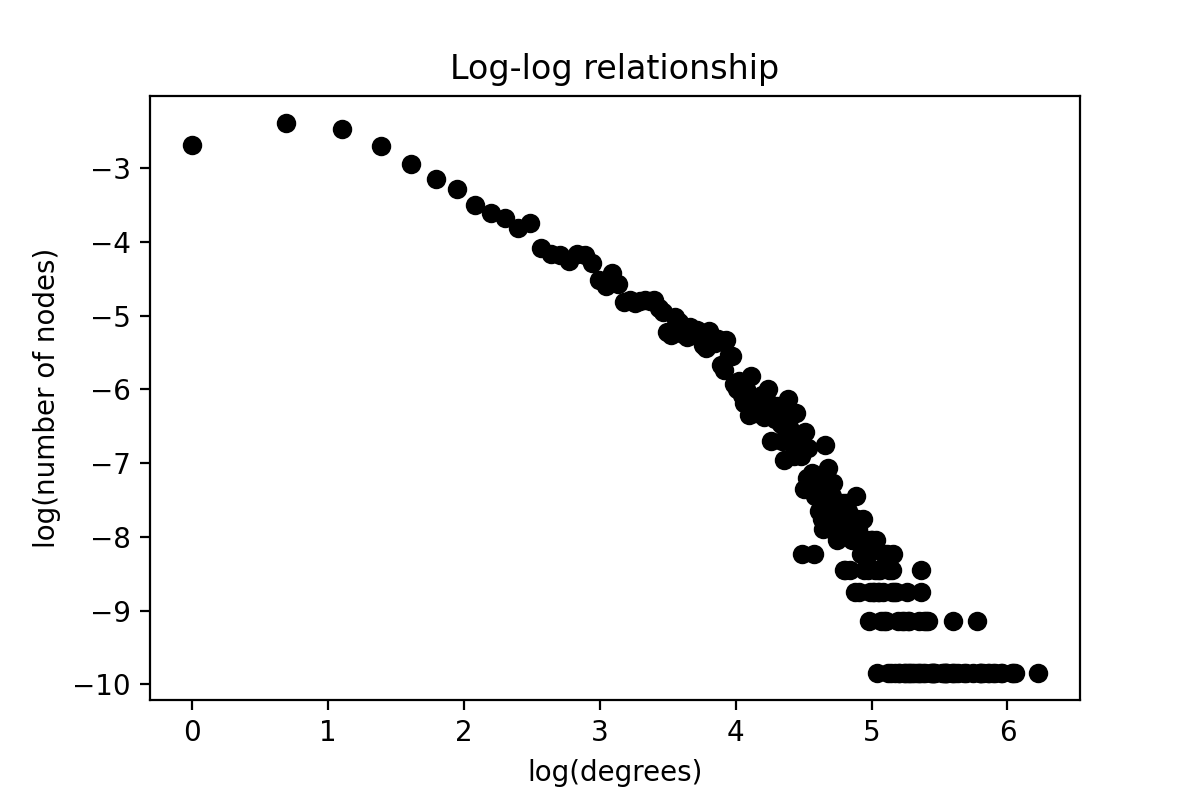
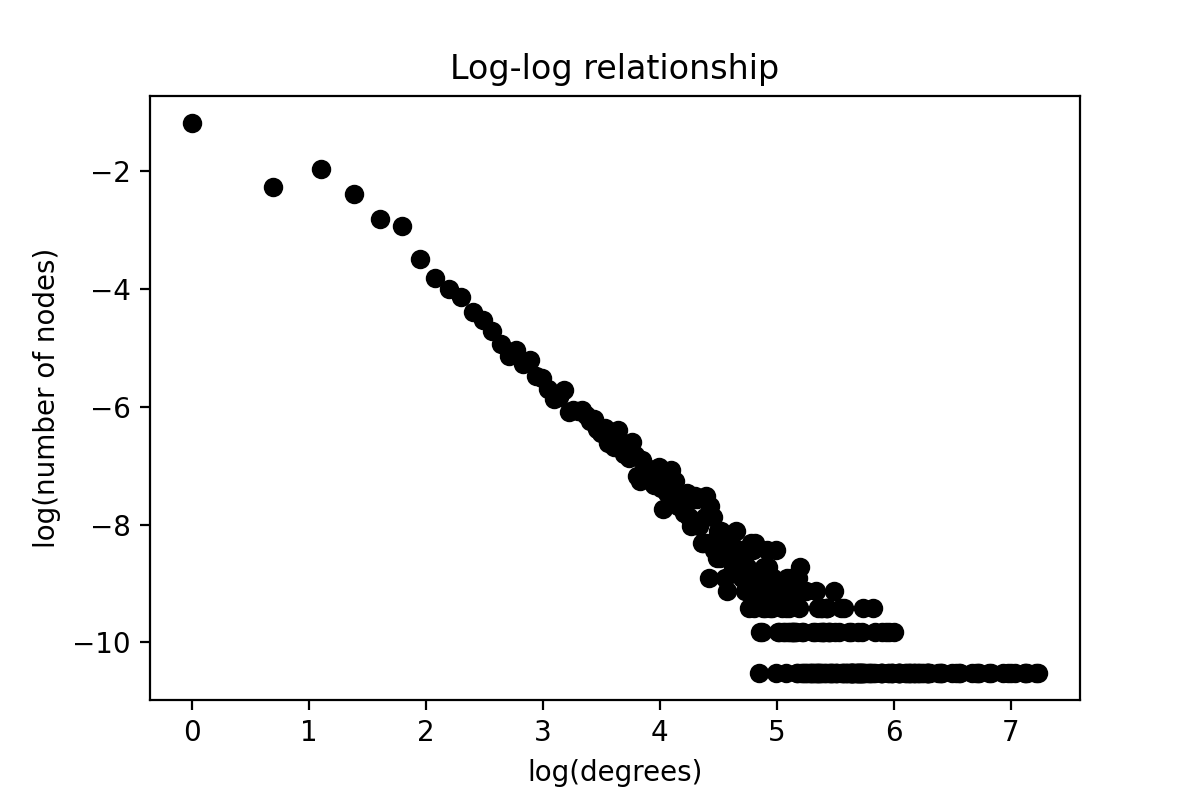
Removed the self-connections and updated C_mean and AverageNeighbourDegree

diff --git a/network.py b/network.py
@@ -8,6 +8,7 @@ import pandas as pd
 from scipy import sparse
 from scipy.optimize import curve_fit
 from scipy.stats import poisson
+from scipy.special import gammaln
 from scipy.stats import chisquare
 from math import factorial
 from math import exp
@@ -133,6 +134,13 @@ class NetworkBuilder:
         self._DegreeList = np.add.reduce(self._A)
         print("\n-- degree list created: \n" + str(self._DegreeList))
 
+        for i in range(self._A_size):
+            if(self._A[i,i] == 1):
+                self._A[i,i] = 0
+                self._DegreeList[i] = self._DegreeList[i] - 1
+        
+        self._A_sparse = sparse.coo_matrix(self._A)
+
         #
         #
 
@@ -169,27 +177,31 @@ class Network:
         """
 
         diagonal = []
+        C = 0
+
         A2_sparse = self.A_sparse @ self.A_sparse
         A3_sparse = A2_sparse @ self.A_sparse
+
+
         print("Matrix multiplication done.")
+
         A3_dense = A3_sparse.toarray()
 
         for i in range(self.A_size):
             diagonal.append(A3_dense[i, i])
 
         print("Filled the diagonal list.")
-        C = 0
 
         for i in range(self.A_size):
             #print("diagonal has value ", diagonal[i], "while degreelist has value ", self.DegreeList[i])
             if self.DegreeList[i] == 1 & diagonal[i] != 0:
-                print("diagonal has value ", diagonal[i], "while degreelist has value ", self.DegreeList[i], "at position", i, ".")
                 continue
+
             if diagonal[i] == 0:         
                 continue
             C = C + diagonal[i]/(self.DegreeList[i]*(self.DegreeList[i] - 1))
 
-        C_mean = C/self.A_size
+        C_mean = C/(self.A_size)
 
         print("Mean clustering was found to be %lf" % (C_mean))
 
@@ -230,27 +242,15 @@ class Network:
     # v) average neighbour degree ===============================================================================================
 
     def AverageNeighbourDegree(self):
-        randNode = np.random.randint(0, self.A_size)
-
-        neighbours = np.where(self.A[randNode, :] == 1)[
-            0]                    # returns tuple
-
-        Mean_Degree = 0
 
         for i in range(self.A_size):
             neighbours = np.where(self.A[i, :] == 1)[0]
-
-            Mean_Degree = Mean_Degree + \
-                round(np.add.reduce([self.DegreeList[j]
-                                     for j in neighbours])/len(neighbours), 2)
+            N = 0
+            if (len(neighbours) == 0):
+                continue
+        
+            Mean_Degree = Mean_Degree + np.add.reduce([self.DegreeList[j] for j in neighbours])/len(neighbours)
         Mean_Degree = Mean_Degree/self.A_size
-
-        # what about a list comprehension?
-        # dont think its possible without using different data format, eg pandas Series or DataFrame
-
-        #print("Node %d has %d neighbours (double-check: %d), which are located at %s." % (randNode, len(neighbours), self.DegreeList[randNode], neighbours))
-
-        #print("\nThose neighbours themself have on average %s neighbours." % round(np.add.reduce([self.DegreeList[i] for i in neighbours])/len(neighbours), 2))
 
         print("\nThe average amount of neighbour's neighbours is %s." %
               round((Mean_Degree), 3))
@@ -267,24 +267,32 @@ class Network:
         dd = [[degree, self.DegreeList.tolist().count(degree)] for degree in set(
             self.DegreeList)]  # DegreeList is actually numpy.ndarray
         # split into two variables for plotting
-        x = [dd[i][0] for i in range(len(dd))]
-        y = [dd[i][1] for i in range(len(dd))]
+        x = np.array([dd[i][0] for i in range(len(dd))])
+        y = np.array([dd[i][1] for i in range(len(dd))])
         weight = np.add.reduce(y)
         y_weighted = [float(i/weight) for i in y]
 
+        def taj(x):
+            return 1./x, 1./x**2.
+
         def Poisson(k, lamb):
-            return poisson.pmf(k, lamb)
+            y, J = taj(k)
+            return np.exp(y * np.log(lamb) - lamb - gammaln(y + 1.)) * J
+
+
+        """ def Poisson(k, lamb):
+            return poisson.pmf(k, lamb) """
 
 
         def Powerlaw(x, a, b):
             return a*x**b
 
 
-        params_poisson, c_poisson = curve_fit(Poisson, x, y_weighted)
+        params_poisson, _ = curve_fit(Poisson, x, y_weighted)
 
         lamb = params_poisson
 
-        params_power, c_power = curve_fit(Powerlaw, x, y_weighted)
+        params_power, _ = curve_fit(Powerlaw, x, y_weighted)
 
         a, b = params_power
         
@@ -347,6 +355,7 @@ N2 = n2.buildFromData()
 
 n2 = NetworkBuilder("Astro", "renumber")
 N2 = n2.buildByImport()
+
 # %% iii) clustering coefficient =====================================================================
 N2.GetMeanC()
 
@@ -358,5 +367,3 @@ N2.plotDegDis('loglog')
 N2.AverageNeighbourDegree()
 # %% vii & viii) Fitting to Poisson and power law =======================================================
 N2.Fitting()
-
-# %%
